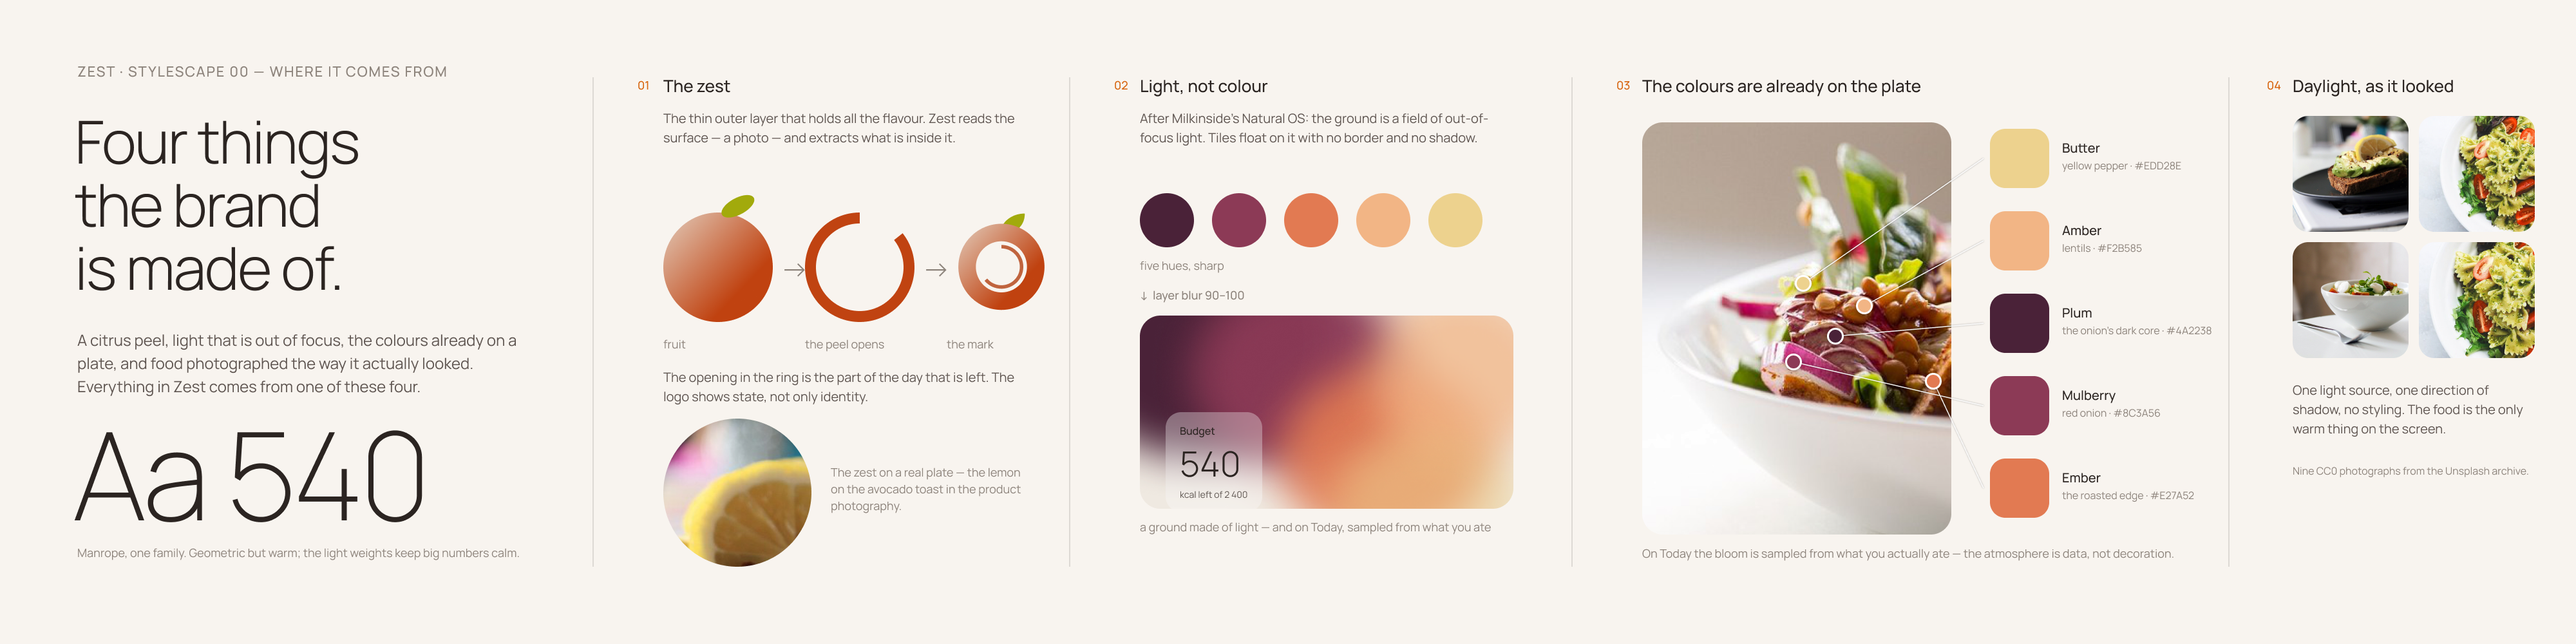
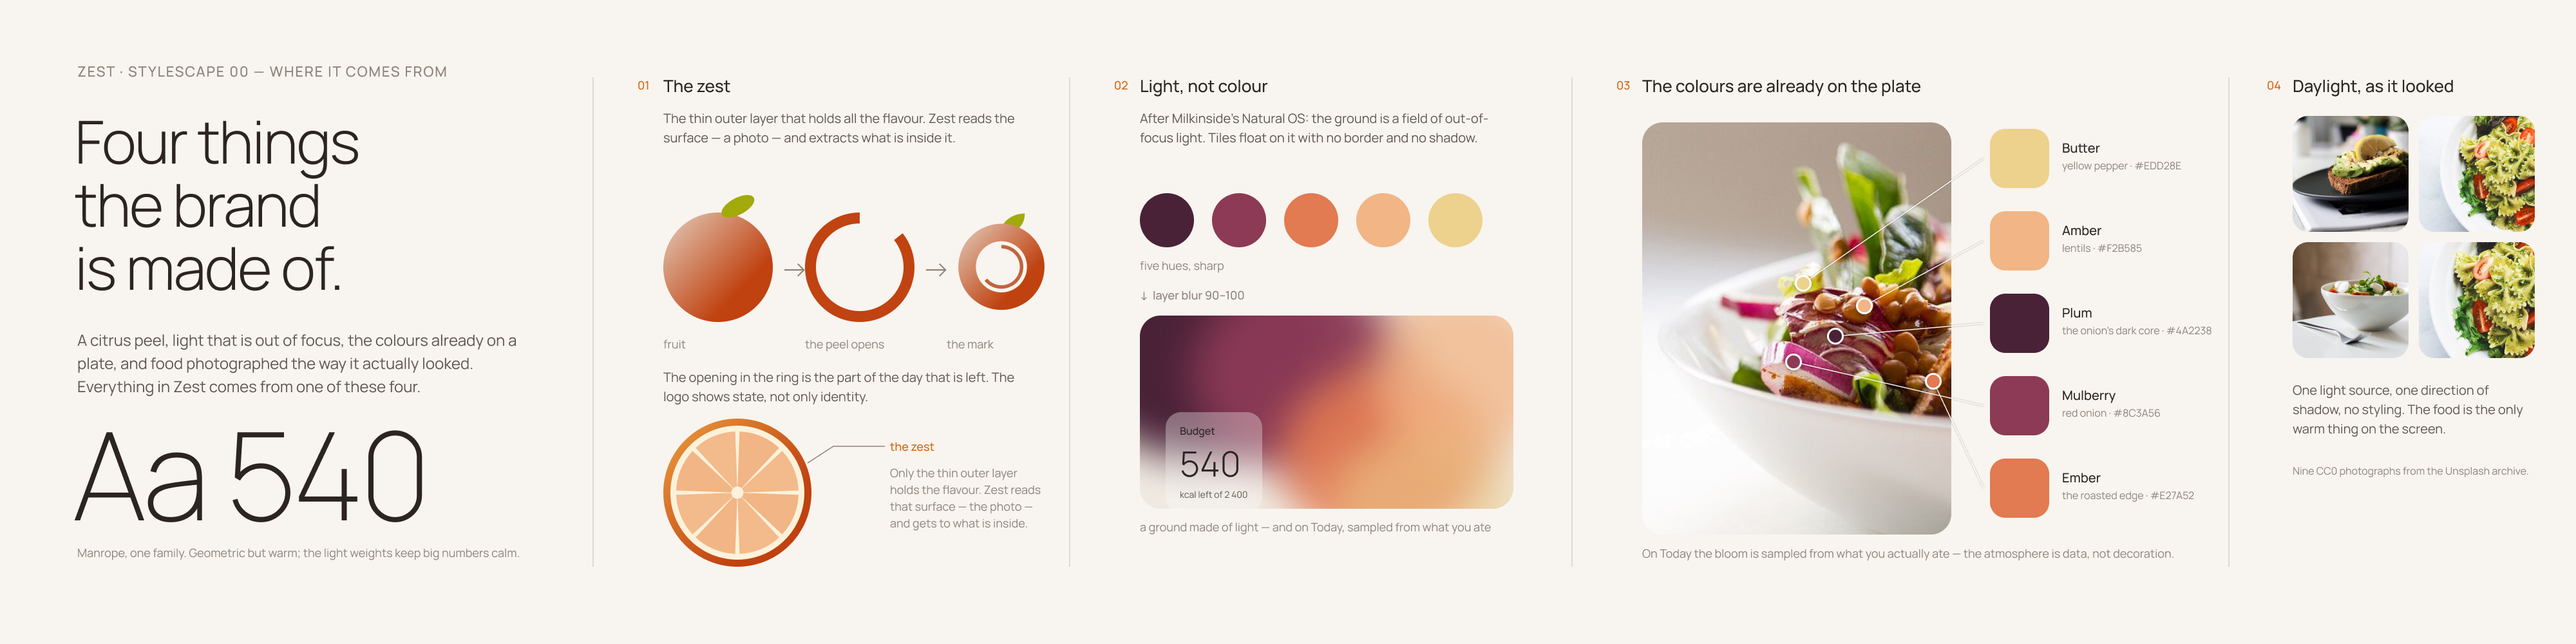
branding: a drawn citrus cross-section instead of the lemon crop
The lemon cut from the product photo was upscaled and soft. A citrus cross-section drawn
from shapes — rind in the logo's cream-to-rust, pith, eight segments — points at the zest
itself and stays sharp at any size.

Claude-Session: https://claude.ai/code/session_01FDPnJdAVQFe1ai4QzDTio4

Changed region(s): [[0.25, 0.651, 0.4062, 0.899]]

diff --git a/docs/PROGRESS.md b/docs/PROGRESS.md
@@ -100,7 +100,7 @@ S07 Ask Zest · S08 Recipes · S09 Recipe detail · S10 History
   on insight tiles — verified from rendered video frames.
 - **Eight edge cases** (E01–E08) on the Screens page, row at y = 1100, each its own
   prototype flow. Exports in `04-edge-cases/`.
-- **Stylescape 00 · Where it comes from** — the moodboard: the peel → the mark, light not
+- **Stylescape 00 · Where it comes from** — the moodboard: the peel → the mark and a drawn citrus cross-section, light not
   colour, the palette sampled with eyedroppers from a real plate, daylight photography.
 - **Cover** and **Flow map** pages built.
 - **Yellows muted** at Sofia's request: `bloom/butter` `#EDD28E`, `macro/carbs` `#E6BC6A`.
@@ -111,7 +111,8 @@ S07 Ask Zest · S08 Recipes · S09 Recipe detail · S10 History
 
 1. Push to a public GitHub repository, verify from incognito
 2. Share the Figma file as "Anyone with the link · can view"; paste the Present link
-3. Video walkthrough covering all three deliverables (script in `docs/VIDEO-SCRIPT.md`)
+3. Rename the Figma file from "Untitled" (the Plugin API cannot set the document name)
+4. Video walkthrough covering all three deliverables (script in `docs/VIDEO-SCRIPT.md`)
 
 ## Decisions worth defending on video
 
